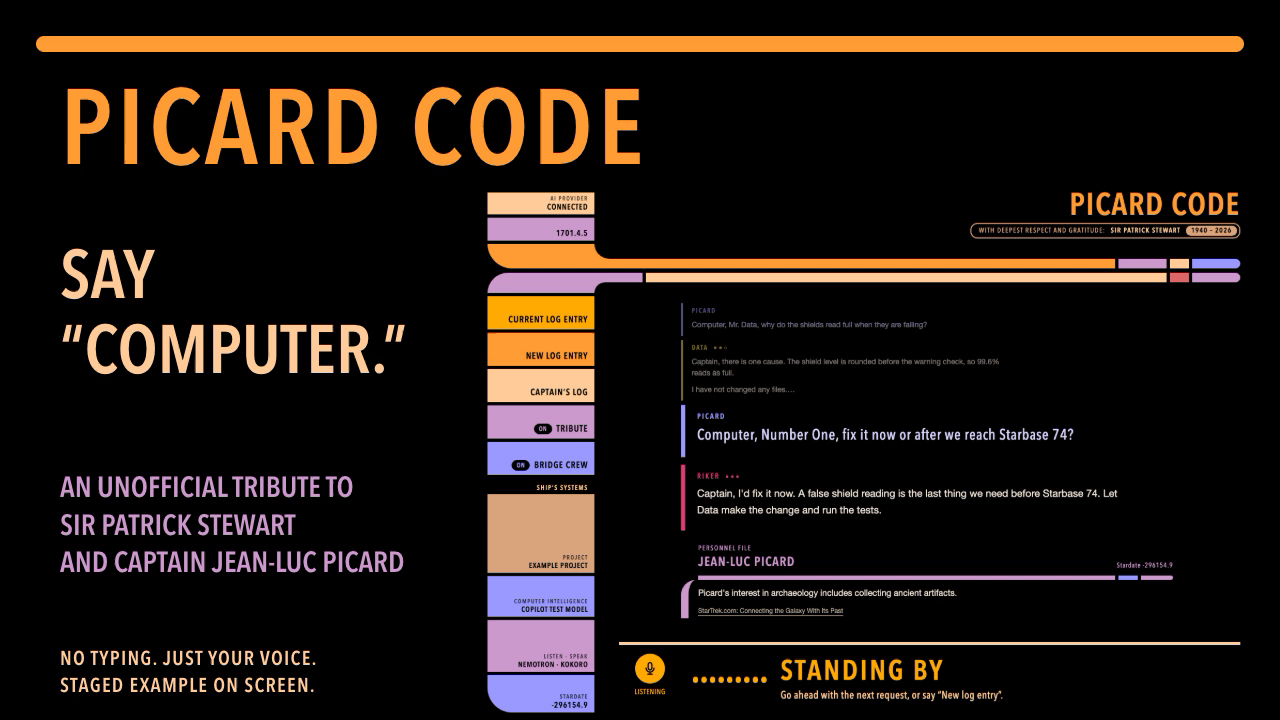
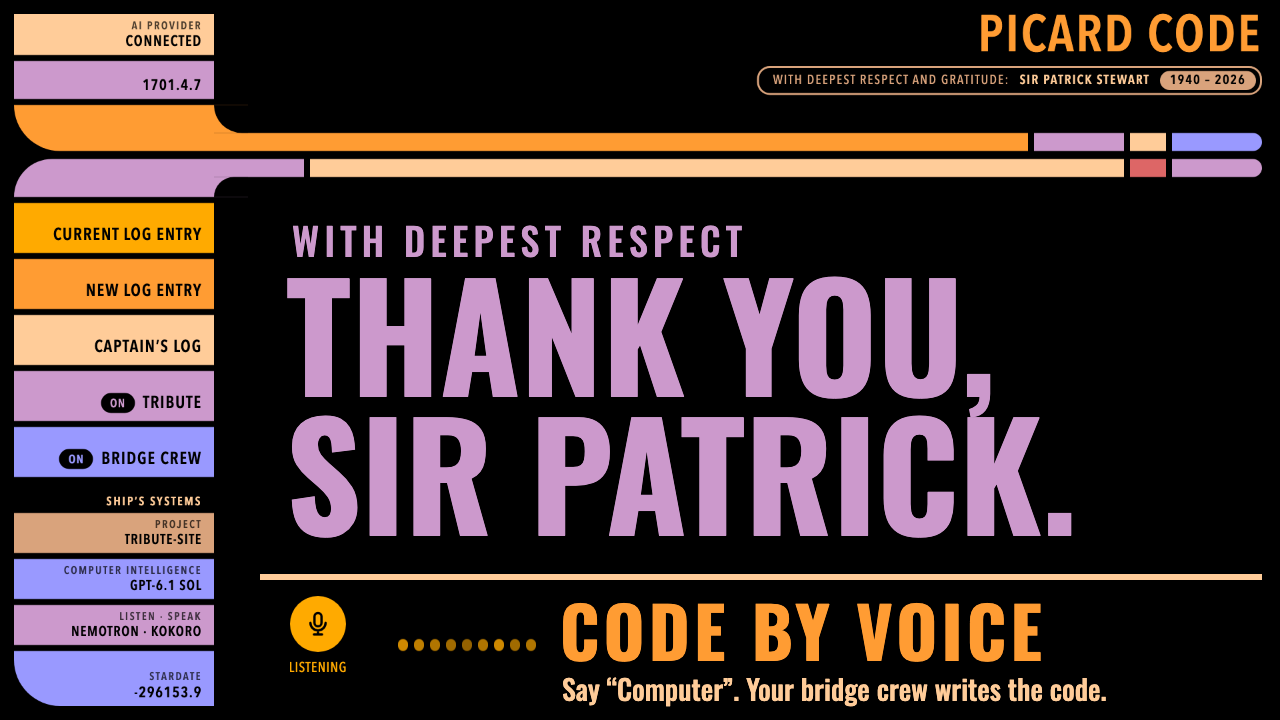
Use the new tribute thumbnail and fix review findings in the video tools
- One YouTube thumbnail, "Thank you, Sir Patrick. Code by voice", drawn over
  the real briefing console; the website and README now show it.
- Time the cut from the first frame shown, even when frames arrive out of order.
- A kept reply now stops where the next voice starts.
- Name plates and captions on short shots end with the shot.
- The site recorder answers a broken address with "Not found" instead of crashing.
- A take whose site shows errors is refused.

diff --git a/video/compositions/caption.html b/video/compositions/caption.html
@@ -25,7 +25,7 @@
         const tl = gsap.timeline({ paused: true });
         tl.fromTo(q(".bar"), { opacity: 0, x: -40 }, { opacity: 1, x: 0, duration: 0.35, ease: "power3.out" }, 0);
         tl.fromTo(q(".end"), { scaleX: 0 }, { scaleX: 1, duration: 0.4, stagger: 0.08, ease: "power2.out" }, 0.1);
-        tl.to(q(".bar"), { opacity: 0, duration: 0.3, ease: "power2.in" }, 3.7);
+        tl.to(q(".bar"), { opacity: 0, duration: 0.3, ease: "power2.in" }, Math.min(4, values.length ?? 4) - 0.3);
         window.__timelines = window.__timelines || {};
         window.__timelines["caption"] = tl;
       })();

diff --git a/video/compositions/plate.html b/video/compositions/plate.html
@@ -28,7 +28,7 @@
         const q = (selector) => root.querySelectorAll(selector);
         const tl = gsap.timeline({ paused: true });
         tl.fromTo(q(".plate"), { opacity: 0, x: -60 }, { opacity: 1, x: 0, duration: 0.35, ease: "power3.out" }, 0);
-        tl.to(q(".plate"), { opacity: 0, x: -30, duration: 0.3, ease: "power2.in" }, 2.7);
+        tl.to(q(".plate"), { opacity: 0, x: -30, duration: 0.3, ease: "power2.in" }, Math.min(3, values.length ?? 3) - 0.3);
         window.__timelines = window.__timelines || {};
         window.__timelines["plate"] = tl;
       })();

diff --git a/tools/README.md b/tools/README.md
@@ -85,9 +85,10 @@ and a plain transcript for YouTube's automatic caption timing.
 
 ## Make the YouTube pack
 
-Render the episode to `picard-code-episode.mp4` in the episode folder, then
-write `youtube/picks.json` there: the episode second each thumbnail is
-drawn over (see the top of [`video/youtube.mjs`](../video/youtube.mjs)).
+Render the episode to `picard-code-episode.mp4` in the episode folder. The
+thumbnail is drawn over the episode's real console screenshot
+(`briefing.png`), with the tribute in the conversation area and what the app
+does in the status area.
 
 ```sh
 cd video && npx -y hyperframes@0.9.15 render -o ../video/out/episode-EXAMPLE/picard-code-episode.mp4 --quality delivery --video-frame-format png --keyframe-interval 2 --no-best-effort
@@ -95,11 +96,12 @@ cd .. && node video/youtube.mjs video/out/episode-EXAMPLE
 ```
 
 It writes into `youtube/`: the upload file with its sound brought to
-YouTube's level (about −14 LUFS; the picture is copied unchanged), three
-1280×720 thumbnails for Test & Compare, the description with chapters, German, French and Spanish
+YouTube's level (about −14 LUFS; the picture is copied unchanged), a
+1280×720 thumbnail (`thumbnail.jpg`, and `thumbnail.png` for
+`site/assets/video.png`), the description with chapters, German, French and Spanish
 descriptions, and `upload.txt` with titles, tags, settings and the pinned
 comment. The words come from [`video/youtube.json`](../video/youtube.json).
-Review the whole video, thumbnails, sound levels, words and caption
+Review the whole video, thumbnail, sound levels, words and caption
 timing before publication.
 Keep all footage, audio, transcripts and local settings out of git.
 Publishing on YouTube needs the owner's explicit approval.

diff --git a/README.md b/README.md
@@ -13,6 +13,8 @@ Listening (Nemotron) and speaking (Kokoro) run on your computer by default.
 Call on Riker, Data, Geordi, Worf, Troi or Crusher for their expertise, with
 ready-made voices, not performer clones.
 
+[![Watch the Picard Code video on YouTube: Thank you, Sir Patrick. Code by voice.](https://raw.githubusercontent.com/sbroenne/picard-code/main/site/assets/video.png)](https://youtu.be/KP6VPTm2a6E)
+
 [Watch the short video](https://youtu.be/KP6VPTm2a6E) ·
 [Project website](https://sbroenne.github.io/picard-code/) ·
 [User guide](https://github.com/sbroenne/picard-code/blob/main/docs/USER_GUIDE.md)

diff --git a/docs/RELEASING.md b/docs/RELEASING.md
@@ -112,7 +112,7 @@ the Subscribe circle; there is no Watch next video until the channel has a
 second one.
 
 [Make the YouTube pack](../tools/README.md#make-the-youtube-pack) prepares
-the upload file, thumbnails, captions, chapters, translated
+the upload file, thumbnail, captions, chapters, translated
 descriptions and the upload settings for the owner to review. The episode is
 published straight away, not as a Premiere.
 
